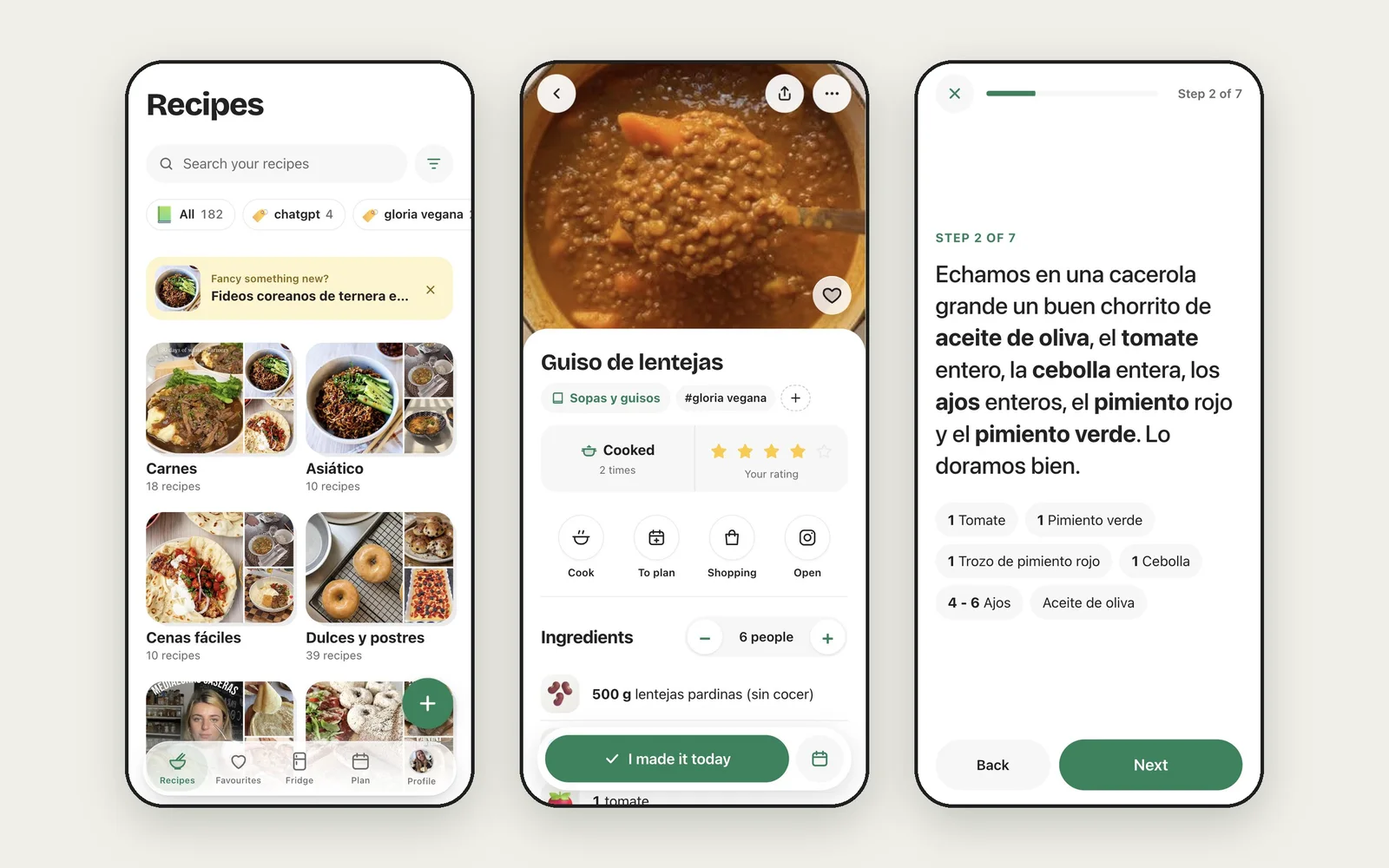
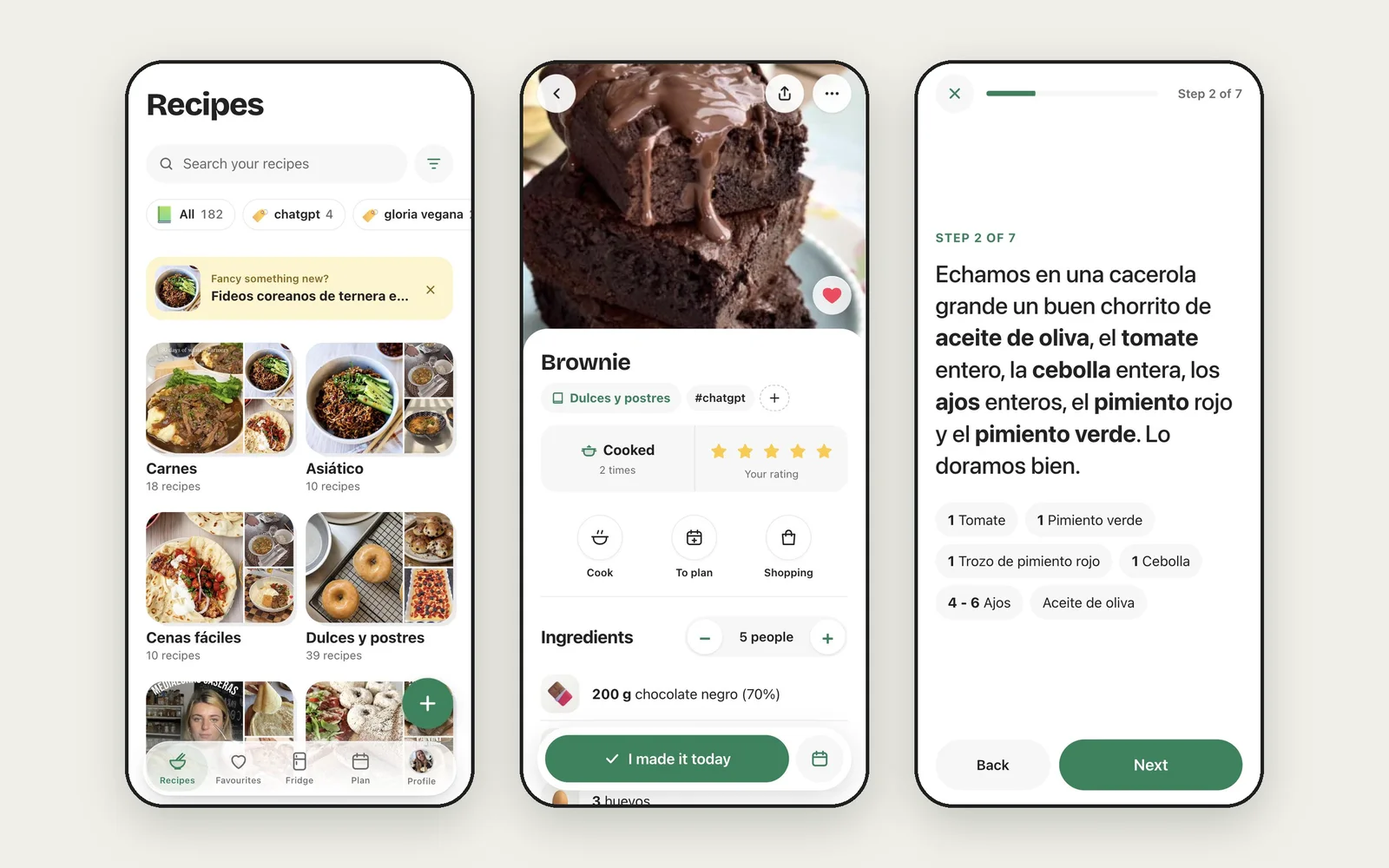
Ronda case study: kitchen cover mockup, user journey map, tighter copy, brownie screens
Claude-Session: https://claude.ai/code/session_01Quv4VpHUjhojSW38pWNX3M

diff --git a/studio/ronda/index.html b/studio/ronda/index.html
@@ -41,71 +41,59 @@
     <a class="back" href="../../studio/"><svg class="ic" viewBox="0 0 24 24" fill="none" stroke="currentColor" stroke-width="1.8" stroke-linecap="round" stroke-linejoin="round" aria-hidden="true"><path d="M19 12H5M11 18l-6-6 6-6"/></svg> All studio work</a>
     <div class="tags"><span>Built solo with AI</span><span>PWA · iOS · Android · Web</span><span>2026</span></div>
     <h1>Ronda: turning saved recipes into meals cooked again</h1>
-    <p class="lede">A recipe product I took from insight to launch <strong>on my own, built entirely with AI</strong>: no engineers, no agency. I led the product strategy, UX and brand; AI wrote every line of code. It closes the gap between saving a recipe on social media and actually cooking it, again and again.</p>
+    <p class="lede">A recipe product I took from insight to launch <strong>on my own, built entirely with AI</strong>. It closes the gap between saving a recipe on social media and cooking it, again and again.</p>
     <dl class="cs-meta"><div><dt>Role</dt><dd><span>Founder and product designer</span><span>Strategy, UX, brand</span></dd></div><div><dt>Built with</dt><dd><span>AI only: Claude and</span><span>specialist skills</span></dd></div><div><dt>Platform</dt><dd><span>PWA: iPhone, Android</span><span>and desktop</span></dd></div><div><dt>Stage</dt><dd><span>Closed beta</span><span>4 languages</span></dd></div></dl>
     <div class="kpis cs-kpis"><div class="kpi"><strong>1</strong>designer, 0 engineers</div><div class="kpi"><strong>100%</strong>of the code written by AI</div><div class="kpi"><strong>110 / 295</strong>imported recipes auto-repaired</div></div>
   </section>
-  <figure class="cs-cover" style="view-transition-name:cover-ronda"><img src="../../assets/ronda/cover-1600.webp?v=4" srcset="../../assets/ronda/cover-800.webp?v=4 800w, ../../assets/ronda/cover-1600.webp?v=4 1600w, ../../assets/ronda/cover-2400.webp?v=4 2400w" sizes="(max-width: 1500px) 100vw, 1440px" width="2400" height="1350" alt="Ronda on a laptop showing a lentil stew recipe, and on an iPhone showing the profile with cooking stats" fetchpriority="high"></figure>
-  <nav class="cs-index" aria-label="In this case study"><p>In this case study</p><ol><li><a href="#context">Context and opportunity</a></li><li><a href="#strategy">Product strategy</a></li><li><a href="#decisions">Key product decisions</a></li><li><a href="#growth">Growth and retention levers</a></li><li><a href="#features">What’s in the product</a></li><li><a href="#desktop">Mobile first, desktop as a real product</a></li><li><a href="#identity">Brand identity</a></li><li><a href="#ai">Designing and shipping with AI</a></li><li><a href="#next">What’s next</a></li></ol></nav>
-  <article class="cs-body"><section class="cs-ch" id="context"><h2>Context and opportunity</h2><div class="cs-text">
+  <figure class="cs-cover" style="view-transition-name:cover-ronda"><img src="../../assets/ronda/cover-1600.webp?v=5" srcset="../../assets/ronda/cover-800.webp?v=5 800w, ../../assets/ronda/cover-1600.webp?v=5 1600w, ../../assets/ronda/cover-2400.webp?v=5 2400w" sizes="(max-width: 1500px) 100vw, 1440px" width="2400" height="1350" alt="Ronda in a kitchen: a brownie recipe on a laptop on the counter, and on an iPhone beside it" fetchpriority="high"></figure>
+  <nav class="cs-index" aria-label="In this case study"><p>In this case study</p><ol><li><a href="#opportunity">The opportunity</a></li><li><a href="#journey">User journey</a></li><li><a href="#strategy">Product strategy</a></li><li><a href="#decisions">Key decisions</a></li><li><a href="#growth">Growth and retention</a></li><li><a href="#product">The product</a></li><li><a href="#desktop">Desktop</a></li><li><a href="#identity">Brand</a></li><li><a href="#ai">Built solo with AI</a></li><li><a href="#next">What’s next</a></li></ol></nav>
+  <article class="cs-body"><section class="cs-ch" id="opportunity"><h2>The opportunity</h2><div class="cs-text">
 <p class="cs-statement">People save hundreds of recipes. They cook almost none of them.</p>
-<p>Saving has become effortless: a tap on Instagram or TikTok. Cooking from those saves hasn’t. Recipes end up scattered across bookmarks and screenshots, and social captions are written for engagement rather than for use: a story first, amounts in slang (“a pinch”, “un chorrito”), whole ingredient lists on a single line.</p>
-<p>Talking to friends and auditing my own collection, one behaviour stood out: <strong>most weeknight meals are repeats</strong>. People rotate twenty or so trusted dishes and try something new now and then. Existing recipe apps are optimised for discovery. The underserved job is the opposite one.</p>
-<blockquote><strong>Job to be done.</strong> When I’m deciding what to cook tonight, I want to find a dish I know works, with what I already have, so I can start cooking without thinking about it.</blockquote></div></section><section class="cs-ch" id="strategy"><h2>Product strategy</h2><div class="cs-text">
-<p>I positioned Ronda as a <strong>retention product, not a discovery product</strong>. <em>Ronda</em> is Spanish for <em>a round</em>, as in one more round of tapas, and the whole experience is built around one loop: save, plan, cook, log, resurface.</p>
+<p>Saving takes one tap; cooking from those saves doesn’t. And most weeknight meals are repeats: people rotate around twenty trusted dishes. Recipe apps optimise for discovery. <strong>The underserved job is cooking again.</strong></p>
+<blockquote><strong>Job to be done:</strong> when I’m deciding what to cook tonight, I want a dish I know works, with what I have, so I can start without thinking.</blockquote></div></section><section class="cs-ch" id="journey"><h2>User journey</h2><div class="cs-text">
+<p>I mapped the path from a saved post to a dish on repeat. Drop-off happens at three points: <strong>capture</strong> (messy captions), <strong>decide</strong> (decision fatigue) and <strong>repeat</strong> (favourites forgotten). Ronda is designed around those moments.</p></div><div class="cs-wide"><figure class="cs-fig"><img src="../../assets/ronda/journey-1600.webp?v=5" srcset="../../assets/ronda/journey-800.webp?v=5 800w, ../../assets/ronda/journey-1600.webp?v=5 1600w, ../../assets/ronda/journey-2400.webp?v=5 2400w" sizes="(max-width: 1500px) 100vw, 1440px" width="2400" height="1300" alt="User journey map with seven stages, from discovering a recipe to cooking it again, showing pains before Ronda and the Ronda moment at each stage" loading="lazy" decoding="async"></figure></div></section><section class="cs-ch" id="strategy"><h2>Product strategy</h2><div class="cs-text">
+<p>A <strong>retention product, not a discovery one</strong>. <em>Ronda</em> means <em>a round</em> in Spanish, and the product is one loop:</p>
 <ul class="cs-points">
-<li><b>Save</b><span>Import from any link or a photo of a cookbook page, cleaned into a usable recipe in seconds.</span></li>
-<li><b>Plan</b><span>A light weekly plan instead of a meal-prep spreadsheet, with one merged shopping list.</span></li>
-<li><b>Cook and log</b><span>A hands-free cooking mode; “I made it today” records each time a dish is cooked.</span></li>
-<li><b>Resurface</b><span>Cook counts and rhythm (“every 3 weeks”) bring favourites back before they’re forgotten.</span></li>
+<li><b>Save</b><span>Any link or a photo, cleaned into a usable recipe.</span></li>
+<li><b>Plan</b><span>A light weekly plan and one merged shopping list.</span></li>
+<li><b>Cook and log</b><span>Hands-free cooking mode; “I made it today”.</span></li>
+<li><b>Resurface</b><span>Cook counts and rhythm bring favourites back.</span></li>
 </ul>
-<p>The metric that best captures value is <strong>recipes cooked per active user per week</strong>. Saves are a vanity metric here: a saved recipe that is never cooked is a failure of the product, not a success.</p></div><div class="cs-wide"><figure class="cs-fig"><img src="../../assets/ronda/screens-core-1600.webp?v=4" srcset="../../assets/ronda/screens-core-800.webp?v=4 800w, ../../assets/ronda/screens-core-1600.webp?v=4 1600w, ../../assets/ronda/screens-core-2400.webp?v=4 2400w" sizes="(max-width: 1500px) 100vw, 1440px" width="2400" height="1500" alt="Ronda on iPhone: the recipe library, a recipe with cook count and rating, and the step-by-step cooking mode" loading="lazy" decoding="async"></figure></div></section><section class="cs-ch" id="decisions"><h2>Key product decisions</h2><div class="cs-text">
-<h3>Information architecture led by frequency of use</h3>
-<p>I initially folded Favourites into Recipes as a filter, since that’s what it is in the data model. Mapping how often each moment happens reversed that call: cooking a known favourite is the most frequent task in the product, so it earned a permanent tab. The shopping list, used weekly, moved inside Plan with a badge for what’s left to buy. The navigation now mirrors usage, not the database: Recipes, Favourites, Fridge, Plan, Profile.</p>
-<h3>“Fridge”: start from what you have</h3>
-<p>“What can I make with this courgette?” is a daily question, so it got a dedicated entry point rather than a hidden filter. Users tap the ingredients they have, chosen from their own most-used ingredients with result counts, so a tap never leads to an empty state. Results are ranked into <strong>everything you have</strong> and <strong>just one thing missing</strong>: a strict AND filter returned almost nothing with three ingredients, while partial matching always gives the user a next step.</p>
+<p>North-star metric: <strong>recipes cooked per active user per week</strong>. Saves alone are a vanity metric.</p></div><div class="cs-wide"><figure class="cs-fig"><img src="../../assets/ronda/screens-core-1600.webp?v=5" srcset="../../assets/ronda/screens-core-800.webp?v=5 800w, ../../assets/ronda/screens-core-1600.webp?v=5 1600w, ../../assets/ronda/screens-core-2400.webp?v=5 2400w" sizes="(max-width: 1500px) 100vw, 1440px" width="2400" height="1500" alt="Ronda on iPhone: the recipe library, a brownie recipe with cook count and rating, and the step-by-step cooking mode" loading="lazy" decoding="async"></figure></div></section><section class="cs-ch" id="decisions"><h2>Key decisions</h2><div class="cs-text">
+<h3>Navigation by frequency of use</h3>
+<p>Cooking a favourite is the most frequent task, so Favourites got a tab; the weekly shopping list moved inside Plan.</p>
+<h3>Fridge: start from what you have</h3>
+<p>Pick ingredients, see recipes with <strong>everything you have</strong>, then those <strong>missing one thing</strong>. A strict filter returned almost nothing; partial matches always give a next step.</p>
 <h3>Activation depends on import quality</h3>
-<p>The first imported recipe is the activation moment. If it arrives broken, trust is lost before the user cooks anything. Every import now runs through a repair pipeline: stories and sign-offs move to notes, number words become digits, kitchen slang becomes real quantities in four languages, run-on lists are split and long methods become short steps. Run against a real collection, it <strong>repaired 110 of 295 recipes</strong>, with every change reviewable and reversible.</p>
-<h3>Designed for the kitchen</h3>
-<p>Quantities in bold and readable from a distance, servings that rescale every amount, ingredient icons for quick scanning, and a step-by-step cooking mode with timers and the ingredients each step needs.</p></div><div class="cs-wide"><figure class="cs-fig"><img src="../../assets/ronda/screens-fridge-1600.webp?v=4" srcset="../../assets/ronda/screens-fridge-800.webp?v=4 800w, ../../assets/ronda/screens-fridge-1600.webp?v=4 1600w, ../../assets/ronda/screens-fridge-2400.webp?v=4 2400w" sizes="(max-width: 1500px) 100vw, 1440px" width="2400" height="1500" alt="The Fridge tab: chosen ingredients, most-used ingredients with counts, and recipes that use everything selected" loading="lazy" decoding="async"></figure></div></section><section class="cs-ch" id="growth"><h2>Growth and retention levers</h2><div class="cs-text">
+<p>The first imported recipe is the activation moment. A repair pipeline cleans every import and <strong>fixed 110 of 295</strong> recipes in a real collection.</p></div><div class="cs-wide"><figure class="cs-fig"><img src="../../assets/ronda/screens-fridge-1600.webp?v=5" srcset="../../assets/ronda/screens-fridge-800.webp?v=5 800w, ../../assets/ronda/screens-fridge-1600.webp?v=5 1600w, ../../assets/ronda/screens-fridge-2400.webp?v=5 2400w" sizes="(max-width: 1500px) 100vw, 1440px" width="2400" height="1500" alt="The Fridge tab: chosen ingredients, most-used ingredients with counts, and recipes that use everything selected" loading="lazy" decoding="async"></figure></div></section><section class="cs-ch" id="growth"><h2>Growth and retention</h2><div class="cs-text">
 <ul class="cs-points">
-<li><b>No empty first run</b><span>New accounts start with example recipes already rated and cooked, so the value of logging is visible before users add anything.</span></li>
-<li><b>Re-engagement</b><span>A weekly planning reminder at a time each user chooses, morning or evening, plus a gentle “fancy something new?” nudge on the home screen.</span></li>
-<li><b>Built-in distribution</b><span>Every recipe can be shared as a link that opens without an account and invites the recipient to save it, turning sharing into acquisition.</span></li>
-<li><b>Low-friction access</b><span>A PWA: no app store, installs from the browser, works on iPhone, Android and desktop, in Spanish, English, Dutch and French.</span></li>
+<li><b>No empty first run</b><span>New accounts start with example recipes, already rated and cooked.</span></li>
+<li><b>Re-engagement</b><span>A weekly planning reminder at the time each user picks.</span></li>
+<li><b>Built-in distribution</b><span>Shared recipe links open without an account and invite a save.</span></li>
+<li><b>Low friction</b><span>A PWA: no app store, four languages, phone and desktop.</span></li>
 </ul>
-<p>Ronda is in a closed beta with a small group of users. Next on the roadmap is instrumenting the funnel: <strong>activation</strong> (first imported recipe cooked), <strong>retention</strong> (weekly cooking) and <strong>referral</strong> (shared links that convert to accounts).</p></div><div class="cs-wide"><figure class="cs-fig"><img src="../../assets/ronda/screens-plan-1600.webp?v=4" srcset="../../assets/ronda/screens-plan-800.webp?v=4 800w, ../../assets/ronda/screens-plan-1600.webp?v=4 1600w, ../../assets/ronda/screens-plan-2400.webp?v=4 2400w" sizes="(max-width: 1500px) 100vw, 1440px" width="2400" height="1500" alt="The weekly plan with the shopping list button, and the profile with cooking stats and the dishes cooked most" loading="lazy" decoding="async"></figure></div></section><section class="cs-ch" id="features"><h2>What’s in the product</h2><div class="cs-text">
-<p>A complete product rather than a prototype: every flow below is live and in daily use.</p>
+<p>Next: instrument activation, weekly retention and referral conversion.</p></div></section><section class="cs-ch" id="product"><h2>The product</h2><div class="cs-text">
 <ul class="cs-points">
-<li><b>Capture</b><span>Import from Instagram, TikTok, YouTube and recipe websites; scan a cookbook page from a photo; dictate; paste text; or write from scratch.</span></li>
-<li><b>Organise</b><span>Cookbooks with photo collages, tags, favourites, archive and a 30-day bin. Multi-select to move, tag or delete in bulk.</span></li>
-<li><b>Cook</b><span>Servings that rescale every quantity, ingredient icons, bold amounts, a step-by-step cooking mode with timers, ratings and a cooking log.</span></li>
-<li><b>Fridge</b><span>Find recipes by the ingredients you have, ranked by what’s missing, with a “quick” filter for 30 minutes or less.</span></li>
-<li><b>Plan and shop</b><span>A weekly plan with ideas to try and dishes due again; a shopping list merged across recipes and grouped by aisle, shareable with a link.</span></li>
-<li><b>Profile</b><span>Personal stats, what you cook most, a monthly cooking history and a customisable cover.</span></li>
-<li><b>Platform</b><span>Installable PWA, weekly push reminders, four languages with automatic translation of recipes, and a full desktop layout.</span></li>
-<li><b>Trust</b><span>Undo on destructive actions, every import repair reviewable, photos optimised for storage, data export.</span></li>
-</ul></div><div class="cs-wide"><figure class="cs-fig"><img src="../../assets/ronda/mockup-profile-1600.webp?v=4" srcset="../../assets/ronda/mockup-profile-800.webp?v=4 800w, ../../assets/ronda/mockup-profile-1600.webp?v=4 1600w, ../../assets/ronda/mockup-profile-2400.webp?v=4 2400w" sizes="(max-width: 1500px) 100vw, 1440px" width="2400" height="1500" alt="Ronda on two iPhones: the profile with cooking stats and favourite dishes, and Fridge results for chocolate, flour and egg" loading="lazy" decoding="async"></figure></div></section><section class="cs-ch" id="desktop"><h2>Mobile first, desktop as a real product</h2><div class="cs-text">
-<p>Planning happens on the sofa, cooking happens in the kitchen, often with a laptop on the counter. On larger screens the tab bar becomes a sidebar, recipes go two-column with the ingredients beside the method, and every touch gesture has a mouse and keyboard equivalent: hover actions instead of swipes, arrow keys in cooking mode, “/” to search.</p></div><div class="cs-wide"><figure class="cs-fig"><img src="../../assets/ronda/screens-desktop-1600.webp?v=4" srcset="../../assets/ronda/screens-desktop-800.webp?v=4 800w, ../../assets/ronda/screens-desktop-1600.webp?v=4 1600w, ../../assets/ronda/screens-desktop-2400.webp?v=4 2400w" sizes="(max-width: 1500px) 100vw, 1440px" width="2400" height="1500" alt="Ronda on desktop: sidebar navigation, recipe photo beside the title, ingredients beside the method" loading="lazy" decoding="async"></figure></div></section><section class="cs-ch" id="identity"><h2>Brand identity</h2><div class="cs-text">
-<p>The identity comes from the table: <strong>a green gingham tablecloth</strong> that carries from the app icon to the launch screen and the profile. The mark is a single lowercase <em>r</em> set in Syne, legible at 16 px. Literal food icons and hand-drawn letters were explored and rejected as generic or dated.</p></div><div class="cs-wide"><figure class="cs-fig"><img src="../../assets/ronda/identity-1600.webp?v=4" srcset="../../assets/ronda/identity-800.webp?v=4 800w, ../../assets/ronda/identity-1600.webp?v=4 1600w, ../../assets/ronda/identity-2400.webp?v=4 2400w" sizes="(max-width: 1500px) 100vw, 1440px" width="2400" height="1500" alt="Ronda app icon, launch screen and sign-in screen, all on the green gingham tablecloth" loading="lazy" decoding="async"></figure></div></section><section class="cs-ch" id="ai"><h2>Designing and shipping with AI</h2><div class="cs-text">
-<p>I owned Ronda end to end, from discovery and strategy to design and release, working with Claude as my engineering team. I set the direction, the product decisions and the quality bar; the AI implemented features, generated design options, wrote automated tests and reviewed flows against usability heuristics.</p>
-<ul class="cs-points">
-<li><b>Judgement stays human</b><span>Most of my time went into prioritising, reviewing and saying no: to generic logo routes, to an architecture that fought real habits.</span></li>
-<li><b>Real use finds real issues</b><span>Testing on devices with real users surfaced what simulations miss, such as fixed bars drifting with the iOS keyboard open.</span></li>
-<li><b>Quality guardrails</b><span>89 automated tests cover parsing, scaling and imports, so every fix stays fixed.</span></li>
-<li><b>Shorter learning loops</b><span>Feedback in the morning, a fix in users’ hands by the evening. Iteration speed becomes a product advantage.</span></li>
-</ul>
-<h3>The toolkit</h3>
-<p>I worked with Claude through <strong>skills</strong>: reusable instructions that turn a general model into a specialist for one kind of work. Each phase used the right one.</p>
+<li><b>Capture</b><span>Instagram, TikTok, YouTube and web imports, photo scan, dictation.</span></li>
+<li><b>Organise</b><span>Cookbooks, tags, favourites, bulk actions, 30-day bin.</span></li>
+<li><b>Cook</b><span>Scaled bold amounts, ingredient icons, cooking mode with timers.</span></li>
+<li><b>Plan and shop</b><span>Weekly plan, ideas due again, list grouped by aisle.</span></li>
+<li><b>Profile</b><span>Cooking stats, what you cook most, monthly history.</span></li>
+<li><b>Platform</b><span>Push reminders, auto-translated recipes, full desktop layout.</span></li>
+</ul></div><div class="cs-wide"><figure class="cs-fig"><img src="../../assets/ronda/mockup-profile-1600.webp?v=5" srcset="../../assets/ronda/mockup-profile-800.webp?v=5 800w, ../../assets/ronda/mockup-profile-1600.webp?v=5 1600w, ../../assets/ronda/mockup-profile-2400.webp?v=5 2400w" sizes="(max-width: 1500px) 100vw, 1440px" width="2400" height="1500" alt="Ronda on two iPhones: the profile with cooking stats and favourite dishes, and Fridge results" loading="lazy" decoding="async"></figure></div></section><section class="cs-ch" id="desktop"><h2>Desktop</h2><div class="cs-text">
+<p>Planning often happens on a laptop. On large screens the tab bar becomes a sidebar, ingredients sit beside the method, and every gesture has a mouse and keyboard twin.</p></div><div class="cs-wide"><figure class="cs-fig"><img src="../../assets/ronda/screens-desktop-1600.webp?v=5" srcset="../../assets/ronda/screens-desktop-800.webp?v=5 800w, ../../assets/ronda/screens-desktop-1600.webp?v=5 1600w, ../../assets/ronda/screens-desktop-2400.webp?v=5 2400w" sizes="(max-width: 1500px) 100vw, 1440px" width="2400" height="1500" alt="Ronda on desktop: sidebar navigation, recipe photo beside the title, ingredients beside the method" loading="lazy" decoding="async"></figure></div></section><section class="cs-ch" id="identity"><h2>Brand</h2><div class="cs-text">
+<p><strong>A green gingham tablecloth</strong> from icon to launch screen, and a single lowercase <em>r</em> in Syne, legible at 16 px.</p></div><div class="cs-wide"><figure class="cs-fig"><img src="../../assets/ronda/identity-1600.webp?v=5" srcset="../../assets/ronda/identity-800.webp?v=5 800w, ../../assets/ronda/identity-1600.webp?v=5 1600w, ../../assets/ronda/identity-2400.webp?v=5 2400w" sizes="(max-width: 1500px) 100vw, 1440px" width="2400" height="1500" alt="Ronda app icon, launch screen and sign-in screen, all on the green gingham tablecloth" loading="lazy" decoding="async"></figure></div></section><section class="cs-ch" id="ai"><h2>Built solo with AI</h2><div class="cs-text">
+<p class="cs-statement">One designer, no engineers. 100% of the code written by AI.</p>
+<p>I owned strategy, UX, brand and every product decision; Claude did the engineering. I worked through <strong>skills</strong>, specialist instructions for each phase:</p>
 <ul>
-<li><strong>Discovery and UX:</strong> a UX design reviewer skill for heuristic critiques of flows and screens, and a UX copywriting skill for microcopy across four languages.</li>
-<li><strong>Brand:</strong> logo design and graphic design skills to explore concept routes, test the mark at small sizes and produce the icon set.</li>
-<li><strong>Interface:</strong> frontend design and UI quality skills for layout, typography and the responsive adaptation to desktop; mobile-native guidance for iOS PWA behaviour.</li>
-<li><strong>Engineering:</strong> Next.js and Vercel best-practice skills for the app architecture and deployment; Supabase for data, auth and storage.</li>
-<li><strong>QA:</strong> an in-app browser to test real screens at phone and desktop sizes, plus automated tests run before every release.</li>
+<li><strong>UX:</strong> UX design reviewer and UX copywriter</li>
+<li><strong>Brand:</strong> logo design and graphic design</li>
+<li><strong>Interface:</strong> frontend design, UI quality and mobile-native PWA guidance</li>
+<li><strong>Engineering:</strong> Next.js and Vercel best practices, Supabase</li>
+<li><strong>QA:</strong> in-app browser testing at phone and desktop sizes, 89 automated tests</li>
 </ul>
-<p>The workflow stayed the same for every feature: <strong>brief, options, critique, build, test on device, ship</strong>, with continuous deployment so each change was live within minutes.</p></div></section><section class="cs-ch" id="next"><h2>What’s next</h2><div class="cs-text">
-<p>The next bet is <strong>shared cookbooks</strong>: send a whole cookbook as a link and let a friend save the recipes she wants. It extends the existing sharing loop into a stronger acquisition channel without the cost of building a social network. Alongside it, funnel analytics to validate the north-star metric before exploring monetisation.</p></div></section></article>
+<p>Every feature followed the same loop: <strong>brief, options, critique, build, test on device, ship</strong>, live within minutes. My time went into judgement: prioritising, reviewing and saying no.</p></div></section><section class="cs-ch" id="next"><h2>What’s next</h2><div class="cs-text">
+<p><strong>Shared cookbooks</strong>: send a whole cookbook as a link, turning the sharing loop into an acquisition channel, then validate the north-star metric before monetisation.</p></div></section></article>
   <nav class="cs-foot" aria-label="More work">
     <a class="cs-next" href="../../studio/branding-concierge-luxury/"><span class="media"><img src="../../assets/img/1739098746554-KHGPYQ6666L33A0MCK2N-800.webp" srcset="../../assets/img/1739098746554-KHGPYQ6666L33A0MCK2N-800.webp 800w, ../../assets/img/1739098746554-KHGPYQ6666L33A0MCK2N-1600.webp 1600w, ../../assets/img/1739098746554-KHGPYQ6666L33A0MCK2N-2400.webp 2400w" sizes="(max-width: 900px) 100vw, 560px" width="2500" height="1667" alt="" loading="lazy" decoding="async"></span><span class="t"><small>Next studio project</small><b>Luxury Service Concierge</b><span class="more">Open <svg class="ic" viewBox="0 0 24 24" fill="none" stroke="currentColor" stroke-width="2" stroke-linecap="round" stroke-linejoin="round" aria-hidden="true"><path d="M5 12h14M13 6l6 6-6 6"/></svg></span></span></a>
     <a class="btn" href="../../studio/">All studio work <svg class="ic" viewBox="0 0 24 24" fill="none" stroke="currentColor" stroke-width="2" stroke-linecap="round" stroke-linejoin="round" aria-hidden="true"><path d="M5 12h14M13 6l6 6-6 6"/></svg></a>

diff --git a/studio/index.html b/studio/index.html
@@ -44,7 +44,7 @@
 
   <section class="section studio-group" aria-labelledby="sg-0">
     <div class="sg-head"><h2 id="sg-0">Products I build</h2><p>Apps I design and ship end to end, <strong>with AI as my engineering team</strong>.</p></div>
-    <div class="earlier"><a class="small" href="../studio/ronda/"><div class="media"><img src="../assets/ronda/cover-800.webp?v=4" srcset="../assets/ronda/cover-800.webp?v=4 800w, ../assets/ronda/cover-1600.webp?v=4 1600w" sizes="(max-width: 600px) 100vw, (max-width: 900px) 50vw, 380px" width="1600" height="1000" alt="" loading="lazy" decoding="async"></div><b>Ronda recipe app <svg class="ic" viewBox="0 0 24 24" fill="none" stroke="currentColor" stroke-width="2" stroke-linecap="round" stroke-linejoin="round" aria-hidden="true"><path d="M5 12h14M13 6l6 6-6 6"/></svg></b><span>Designed and built solo, entirely with AI</span></a></div>
+    <div class="earlier"><a class="small" href="../studio/ronda/"><div class="media"><img src="../assets/ronda/cover-800.webp?v=5" srcset="../assets/ronda/cover-800.webp?v=5 800w, ../assets/ronda/cover-1600.webp?v=5 1600w" sizes="(max-width: 600px) 100vw, (max-width: 900px) 50vw, 380px" width="1600" height="1000" alt="" loading="lazy" decoding="async"></div><b>Ronda recipe app <svg class="ic" viewBox="0 0 24 24" fill="none" stroke="currentColor" stroke-width="2" stroke-linecap="round" stroke-linejoin="round" aria-hidden="true"><path d="M5 12h14M13 6l6 6-6 6"/></svg></b><span>Designed and built solo, entirely with AI</span></a></div>
   </section>
   <section class="section studio-group" aria-labelledby="sg-1">
     <div class="sg-head"><h2 id="sg-1">Websites and UI</h2><p>No-code websites and interfaces for small businesses, <strong>from the first sketch to launch</strong>.</p></div>

diff --git a/_src/build.py b/_src/build.py
@@ -589,7 +589,7 @@ STUDIO_GROUPS = [
 ]
 
 
-RONDA_CARD = f'''<a class="small" href="@@/studio/ronda/"><div class="media"><img src="@@/assets/ronda/cover-800.webp?v=4" srcset="@@/assets/ronda/cover-800.webp?v=4 800w, @@/assets/ronda/cover-1600.webp?v=4 1600w" sizes="(max-width: 600px) 100vw, (max-width: 900px) 50vw, 380px" width="1600" height="1000" alt="" loading="lazy" decoding="async"></div><b>Ronda recipe app {ARROW}</b><span>Designed and built solo, entirely with AI</span></a>'''
+RONDA_CARD = f'''<a class="small" href="@@/studio/ronda/"><div class="media"><img src="@@/assets/ronda/cover-800.webp?v=5" srcset="@@/assets/ronda/cover-800.webp?v=5 800w, @@/assets/ronda/cover-1600.webp?v=5 1600w" sizes="(max-width: 600px) 100vw, (max-width: 900px) 50vw, 380px" width="1600" height="1000" alt="" loading="lazy" decoding="async"></div><b>Ronda recipe app {ARROW}</b><span>Designed and built solo, entirely with AI</span></a>'''
 
 
 def studio():
@@ -1079,8 +1079,8 @@ def case_page(key, p, back, back_label, nxt, nxt_href, kind):
 
 
 # ---------- Ronda: a product I design and build (hand-written, not from the Squarespace export) ----------
-RONDA_V = 4
-RONDA = dict(slug='ronda', title='Ronda', alt='Ronda on a laptop showing a lentil stew recipe, and on an iPhone showing the profile with cooking stats')
+RONDA_V = 5
+RONDA = dict(slug='ronda', title='Ronda', alt='Ronda in a kitchen: a brownie recipe on a laptop on the counter, and on an iPhone beside it')
 
 
 def rimg(name, alt, w, h, eager=False):
@@ -1092,73 +1092,62 @@ def rimg(name, alt, w, h, eager=False):
 
 
 RONDA_CH = [
-    ('context', 'Context and opportunity', """
+    ('opportunity', 'The opportunity', """
 <p class="cs-statement">People save hundreds of recipes. They cook almost none of them.</p>
-<p>Saving has become effortless: a tap on Instagram or TikTok. Cooking from those saves hasn’t. Recipes end up scattered across bookmarks and screenshots, and social captions are written for engagement rather than for use: a story first, amounts in slang (“a pinch”, “un chorrito”), whole ingredient lists on a single line.</p>
-<p>Talking to friends and auditing my own collection, one behaviour stood out: <strong>most weeknight meals are repeats</strong>. People rotate twenty or so trusted dishes and try something new now and then. Existing recipe apps are optimised for discovery. The underserved job is the opposite one.</p>
-<blockquote><strong>Job to be done.</strong> When I’m deciding what to cook tonight, I want to find a dish I know works, with what I already have, so I can start cooking without thinking about it.</blockquote>"""),
+<p>Saving takes one tap; cooking from those saves doesn’t. And most weeknight meals are repeats: people rotate around twenty trusted dishes. Recipe apps optimise for discovery. <strong>The underserved job is cooking again.</strong></p>
+<blockquote><strong>Job to be done:</strong> when I’m deciding what to cook tonight, I want a dish I know works, with what I have, so I can start without thinking.</blockquote>"""),
+    ('journey', 'User journey', """
+<p>I mapped the path from a saved post to a dish on repeat. Drop-off happens at three points: <strong>capture</strong> (messy captions), <strong>decide</strong> (decision fatigue) and <strong>repeat</strong> (favourites forgotten). Ronda is designed around those moments.</p>"""),
     ('strategy', 'Product strategy', """
-<p>I positioned Ronda as a <strong>retention product, not a discovery product</strong>. <em>Ronda</em> is Spanish for <em>a round</em>, as in one more round of tapas, and the whole experience is built around one loop: save, plan, cook, log, resurface.</p>
+<p>A <strong>retention product, not a discovery one</strong>. <em>Ronda</em> means <em>a round</em> in Spanish, and the product is one loop:</p>
 <ul class="cs-points">
-<li><b>Save</b><span>Import from any link or a photo of a cookbook page, cleaned into a usable recipe in seconds.</span></li>
-<li><b>Plan</b><span>A light weekly plan instead of a meal-prep spreadsheet, with one merged shopping list.</span></li>
-<li><b>Cook and log</b><span>A hands-free cooking mode; “I made it today” records each time a dish is cooked.</span></li>
-<li><b>Resurface</b><span>Cook counts and rhythm (“every 3 weeks”) bring favourites back before they’re forgotten.</span></li>
+<li><b>Save</b><span>Any link or a photo, cleaned into a usable recipe.</span></li>
+<li><b>Plan</b><span>A light weekly plan and one merged shopping list.</span></li>
+<li><b>Cook and log</b><span>Hands-free cooking mode; “I made it today”.</span></li>
+<li><b>Resurface</b><span>Cook counts and rhythm bring favourites back.</span></li>
 </ul>
-<p>The metric that best captures value is <strong>recipes cooked per active user per week</strong>. Saves are a vanity metric here: a saved recipe that is never cooked is a failure of the product, not a success.</p>"""),
-    ('decisions', 'Key product decisions', """
-<h3>Information architecture led by frequency of use</h3>
-<p>I initially folded Favourites into Recipes as a filter, since that’s what it is in the data model. Mapping how often each moment happens reversed that call: cooking a known favourite is the most frequent task in the product, so it earned a permanent tab. The shopping list, used weekly, moved inside Plan with a badge for what’s left to buy. The navigation now mirrors usage, not the database: Recipes, Favourites, Fridge, Plan, Profile.</p>
-<h3>“Fridge”: start from what you have</h3>
-<p>“What can I make with this courgette?” is a daily question, so it got a dedicated entry point rather than a hidden filter. Users tap the ingredients they have, chosen from their own most-used ingredients with result counts, so a tap never leads to an empty state. Results are ranked into <strong>everything you have</strong> and <strong>just one thing missing</strong>: a strict AND filter returned almost nothing with three ingredients, while partial matching always gives the user a next step.</p>
+<p>North-star metric: <strong>recipes cooked per active user per week</strong>. Saves alone are a vanity metric.</p>"""),
+    ('decisions', 'Key decisions', """
+<h3>Navigation by frequency of use</h3>
+<p>Cooking a favourite is the most frequent task, so Favourites got a tab; the weekly shopping list moved inside Plan.</p>
+<h3>Fridge: start from what you have</h3>
+<p>Pick ingredients, see recipes with <strong>everything you have</strong>, then those <strong>missing one thing</strong>. A strict filter returned almost nothing; partial matches always give a next step.</p>
 <h3>Activation depends on import quality</h3>
-<p>The first imported recipe is the activation moment. If it arrives broken, trust is lost before the user cooks anything. Every import now runs through a repair pipeline: stories and sign-offs move to notes, number words become digits, kitchen slang becomes real quantities in four languages, run-on lists are split and long methods become short steps. Run against a real collection, it <strong>repaired 110 of 295 recipes</strong>, with every change reviewable and reversible.</p>
-<h3>Designed for the kitchen</h3>
-<p>Quantities in bold and readable from a distance, servings that rescale every amount, ingredient icons for quick scanning, and a step-by-step cooking mode with timers and the ingredients each step needs.</p>"""),
-    ('growth', 'Growth and retention levers', """
+<p>The first imported recipe is the activation moment. A repair pipeline cleans every import and <strong>fixed 110 of 295</strong> recipes in a real collection.</p>"""),
+    ('growth', 'Growth and retention', """
 <ul class="cs-points">
-<li><b>No empty first run</b><span>New accounts start with example recipes already rated and cooked, so the value of logging is visible before users add anything.</span></li>
-<li><b>Re-engagement</b><span>A weekly planning reminder at a time each user chooses, morning or evening, plus a gentle “fancy something new?” nudge on the home screen.</span></li>
-<li><b>Built-in distribution</b><span>Every recipe can be shared as a link that opens without an account and invites the recipient to save it, turning sharing into acquisition.</span></li>
-<li><b>Low-friction access</b><span>A PWA: no app store, installs from the browser, works on iPhone, Android and desktop, in Spanish, English, Dutch and French.</span></li>
+<li><b>No empty first run</b><span>New accounts start with example recipes, already rated and cooked.</span></li>
+<li><b>Re-engagement</b><span>A weekly planning reminder at the time each user picks.</span></li>
+<li><b>Built-in distribution</b><span>Shared recipe links open without an account and invite a save.</span></li>
+<li><b>Low friction</b><span>A PWA: no app store, four languages, phone and desktop.</span></li>
 </ul>
-<p>Ronda is in a closed beta with a small group of users. Next on the roadmap is instrumenting the funnel: <strong>activation</strong> (first imported recipe cooked), <strong>retention</strong> (weekly cooking) and <strong>referral</strong> (shared links that convert to accounts).</p>"""),
-    ('features', 'What’s in the product', """
-<p>A complete product rather than a prototype: every flow below is live and in daily use.</p>
+<p>Next: instrument activation, weekly retention and referral conversion.</p>"""),
+    ('product', 'The product', """
 <ul class="cs-points">
-<li><b>Capture</b><span>Import from Instagram, TikTok, YouTube and recipe websites; scan a cookbook page from a photo; dictate; paste text; or write from scratch.</span></li>
-<li><b>Organise</b><span>Cookbooks with photo collages, tags, favourites, archive and a 30-day bin. Multi-select to move, tag or delete in bulk.</span></li>
-<li><b>Cook</b><span>Servings that rescale every quantity, ingredient icons, bold amounts, a step-by-step cooking mode with timers, ratings and a cooking log.</span></li>
-<li><b>Fridge</b><span>Find recipes by the ingredients you have, ranked by what’s missing, with a “quick” filter for 30 minutes or less.</span></li>
-<li><b>Plan and shop</b><span>A weekly plan with ideas to try and dishes due again; a shopping list merged across recipes and grouped by aisle, shareable with a link.</span></li>
-<li><b>Profile</b><span>Personal stats, what you cook most, a monthly cooking history and a customisable cover.</span></li>
-<li><b>Platform</b><span>Installable PWA, weekly push reminders, four languages with automatic translation of recipes, and a full desktop layout.</span></li>
-<li><b>Trust</b><span>Undo on destructive actions, every import repair reviewable, photos optimised for storage, data export.</span></li>
+<li><b>Capture</b><span>Instagram, TikTok, YouTube and web imports, photo scan, dictation.</span></li>
+<li><b>Organise</b><span>Cookbooks, tags, favourites, bulk actions, 30-day bin.</span></li>
+<li><b>Cook</b><span>Scaled bold amounts, ingredient icons, cooking mode with timers.</span></li>
+<li><b>Plan and shop</b><span>Weekly plan, ideas due again, list grouped by aisle.</span></li>
+<li><b>Profile</b><span>Cooking stats, what you cook most, monthly history.</span></li>
+<li><b>Platform</b><span>Push reminders, auto-translated recipes, full desktop layout.</span></li>
 </ul>"""),
-    ('desktop', 'Mobile first, desktop as a real product', """
-<p>Planning happens on the sofa, cooking happens in the kitchen, often with a laptop on the counter. On larger screens the tab bar becomes a sidebar, recipes go two-column with the ingredients beside the method, and every touch gesture has a mouse and keyboard equivalent: hover actions instead of swipes, arrow keys in cooking mode, “/” to search.</p>"""),
-    ('identity', 'Brand identity', """
-<p>The identity comes from the table: <strong>a green gingham tablecloth</strong> that carries from the app icon to the launch screen and the profile. The mark is a single lowercase <em>r</em> set in Syne, legible at 16 px. Literal food icons and hand-drawn letters were explored and rejected as generic or dated.</p>"""),
-    ('ai', 'Designing and shipping with AI', """
-<p>I owned Ronda end to end, from discovery and strategy to design and release, working with Claude as my engineering team. I set the direction, the product decisions and the quality bar; the AI implemented features, generated design options, wrote automated tests and reviewed flows against usability heuristics.</p>
-<ul class="cs-points">
-<li><b>Judgement stays human</b><span>Most of my time went into prioritising, reviewing and saying no: to generic logo routes, to an architecture that fought real habits.</span></li>
-<li><b>Real use finds real issues</b><span>Testing on devices with real users surfaced what simulations miss, such as fixed bars drifting with the iOS keyboard open.</span></li>
-<li><b>Quality guardrails</b><span>89 automated tests cover parsing, scaling and imports, so every fix stays fixed.</span></li>
-<li><b>Shorter learning loops</b><span>Feedback in the morning, a fix in users’ hands by the evening. Iteration speed becomes a product advantage.</span></li>
-</ul>
-<h3>The toolkit</h3>
-<p>I worked with Claude through <strong>skills</strong>: reusable instructions that turn a general model into a specialist for one kind of work. Each phase used the right one.</p>
+    ('desktop', 'Desktop', """
+<p>Planning often happens on a laptop. On large screens the tab bar becomes a sidebar, ingredients sit beside the method, and every gesture has a mouse and keyboard twin.</p>"""),
+    ('identity', 'Brand', """
+<p><strong>A green gingham tablecloth</strong> from icon to launch screen, and a single lowercase <em>r</em> in Syne, legible at 16 px.</p>"""),
+    ('ai', 'Built solo with AI', """
+<p class="cs-statement">One designer, no engineers. 100% of the code written by AI.</p>
+<p>I owned strategy, UX, brand and every product decision; Claude did the engineering. I worked through <strong>skills</strong>, specialist instructions for each phase:</p>
 <ul>
-<li><strong>Discovery and UX:</strong> a UX design reviewer skill for heuristic critiques of flows and screens, and a UX copywriting skill for microcopy across four languages.</li>
-<li><strong>Brand:</strong> logo design and graphic design skills to explore concept routes, test the mark at small sizes and produce the icon set.</li>
-<li><strong>Interface:</strong> frontend design and UI quality skills for layout, typography and the responsive adaptation to desktop; mobile-native guidance for iOS PWA behaviour.</li>
-<li><strong>Engineering:</strong> Next.js and Vercel best-practice skills for the app architecture and deployment; Supabase for data, auth and storage.</li>
-<li><strong>QA:</strong> an in-app browser to test real screens at phone and desktop sizes, plus automated tests run before every release.</li>
+<li><strong>UX:</strong> UX design reviewer and UX copywriter</li>
+<li><strong>Brand:</strong> logo design and graphic design</li>
+<li><strong>Interface:</strong> frontend design, UI quality and mobile-native PWA guidance</li>
+<li><strong>Engineering:</strong> Next.js and Vercel best practices, Supabase</li>
+<li><strong>QA:</strong> in-app browser testing at phone and desktop sizes, 89 automated tests</li>
 </ul>
-<p>The workflow stayed the same for every feature: <strong>brief, options, critique, build, test on device, ship</strong>, with continuous deployment so each change was live within minutes.</p>"""),
+<p>Every feature followed the same loop: <strong>brief, options, critique, build, test on device, ship</strong>, live within minutes. My time went into judgement: prioritising, reviewing and saying no.</p>"""),
     ('next', 'What’s next', """
-<p>The next bet is <strong>shared cookbooks</strong>: send a whole cookbook as a link and let a friend save the recipes she wants. It extends the existing sharing loop into a stronger acquisition channel without the cost of building a social network. Alongside it, funnel analytics to validate the north-star metric before exploring monetisation.</p>"""),
+<p><strong>Shared cookbooks</strong>: send a whole cookbook as a link, turning the sharing loop into an acquisition channel, then validate the north-star metric before monetisation.</p>"""),
 ]
 
 
@@ -1166,10 +1155,10 @@ def ronda_page(nxt):
     def fig(name, alt):
         return f'<div class="cs-wide"><figure class="cs-fig">{rimg(name, alt, 2400, 1500)}</figure></div>'
     figs = {
-        'strategy': fig('screens-core', 'Ronda on iPhone: the recipe library, a recipe with cook count and rating, and the step-by-step cooking mode'),
+        'journey': f'<div class="cs-wide"><figure class="cs-fig">{rimg("journey", "User journey map with seven stages, from discovering a recipe to cooking it again, showing pains before Ronda and the Ronda moment at each stage", 2400, 1300)}</figure></div>',
+        'strategy': fig('screens-core', 'Ronda on iPhone: the recipe library, a brownie recipe with cook count and rating, and the step-by-step cooking mode'),
         'decisions': fig('screens-fridge', 'The Fridge tab: chosen ingredients, most-used ingredients with counts, and recipes that use everything selected'),
-        'features': fig('mockup-profile', 'Ronda on two iPhones: the profile with cooking stats and favourite dishes, and Fridge results for chocolate, flour and egg'),
-        'growth': fig('screens-plan', 'The weekly plan with the shopping list button, and the profile with cooking stats and the dishes cooked most'),
+        'product': fig('mockup-profile', 'Ronda on two iPhones: the profile with cooking stats and favourite dishes, and Fridge results'),
         'desktop': fig('screens-desktop', 'Ronda on desktop: sidebar navigation, recipe photo beside the title, ingredients beside the method'),
         'identity': fig('identity', 'Ronda app icon, launch screen and sign-in screen, all on the green gingham tablecloth'),
     }
@@ -1194,7 +1183,7 @@ def ronda_page(nxt):
     <a class="back" href="@@/studio/">{BACK} All studio work</a>
     {tags(['Built solo with AI', 'PWA · iOS · Android · Web', '2026'])}
     <h1>Ronda: turning saved recipes into meals cooked again</h1>
-    <p class="lede">A recipe product I took from insight to launch <strong>on my own, built entirely with AI</strong>: no engineers, no agency. I led the product strategy, UX and brand; AI wrote every line of code. It closes the gap between saving a recipe on social media and actually cooking it, again and again.</p>
+    <p class="lede">A recipe product I took from insight to launch <strong>on my own, built entirely with AI</strong>. It closes the gap between saving a recipe on social media and cooking it, again and again.</p>
     {meta_html(meta)}
     <div class="kpis cs-kpis">{kpi_html}</div>
   </section>
